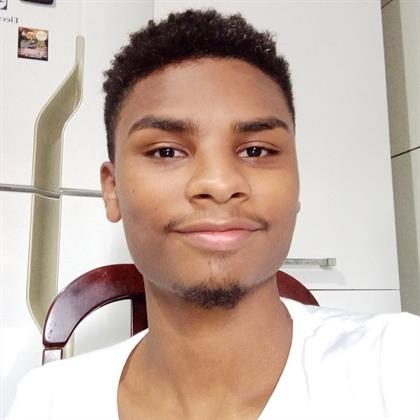
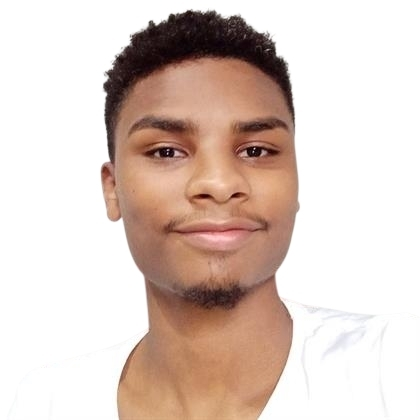
Foto
Breve atualização da foto de perfil do modo "light"

diff --git a/style.css b/style.css
@@ -4,6 +4,15 @@
   box-sizing: border-box;
 }
 
+::-webkit-scrollbar {
+  width: 10px;
+}
+
+::-webkit-scrollbar-track {
+  background: transparent;
+}
+
+
 :root {
   --text-color: white;
   --bg-url:url(./assets/bg-mobile.jpg);
